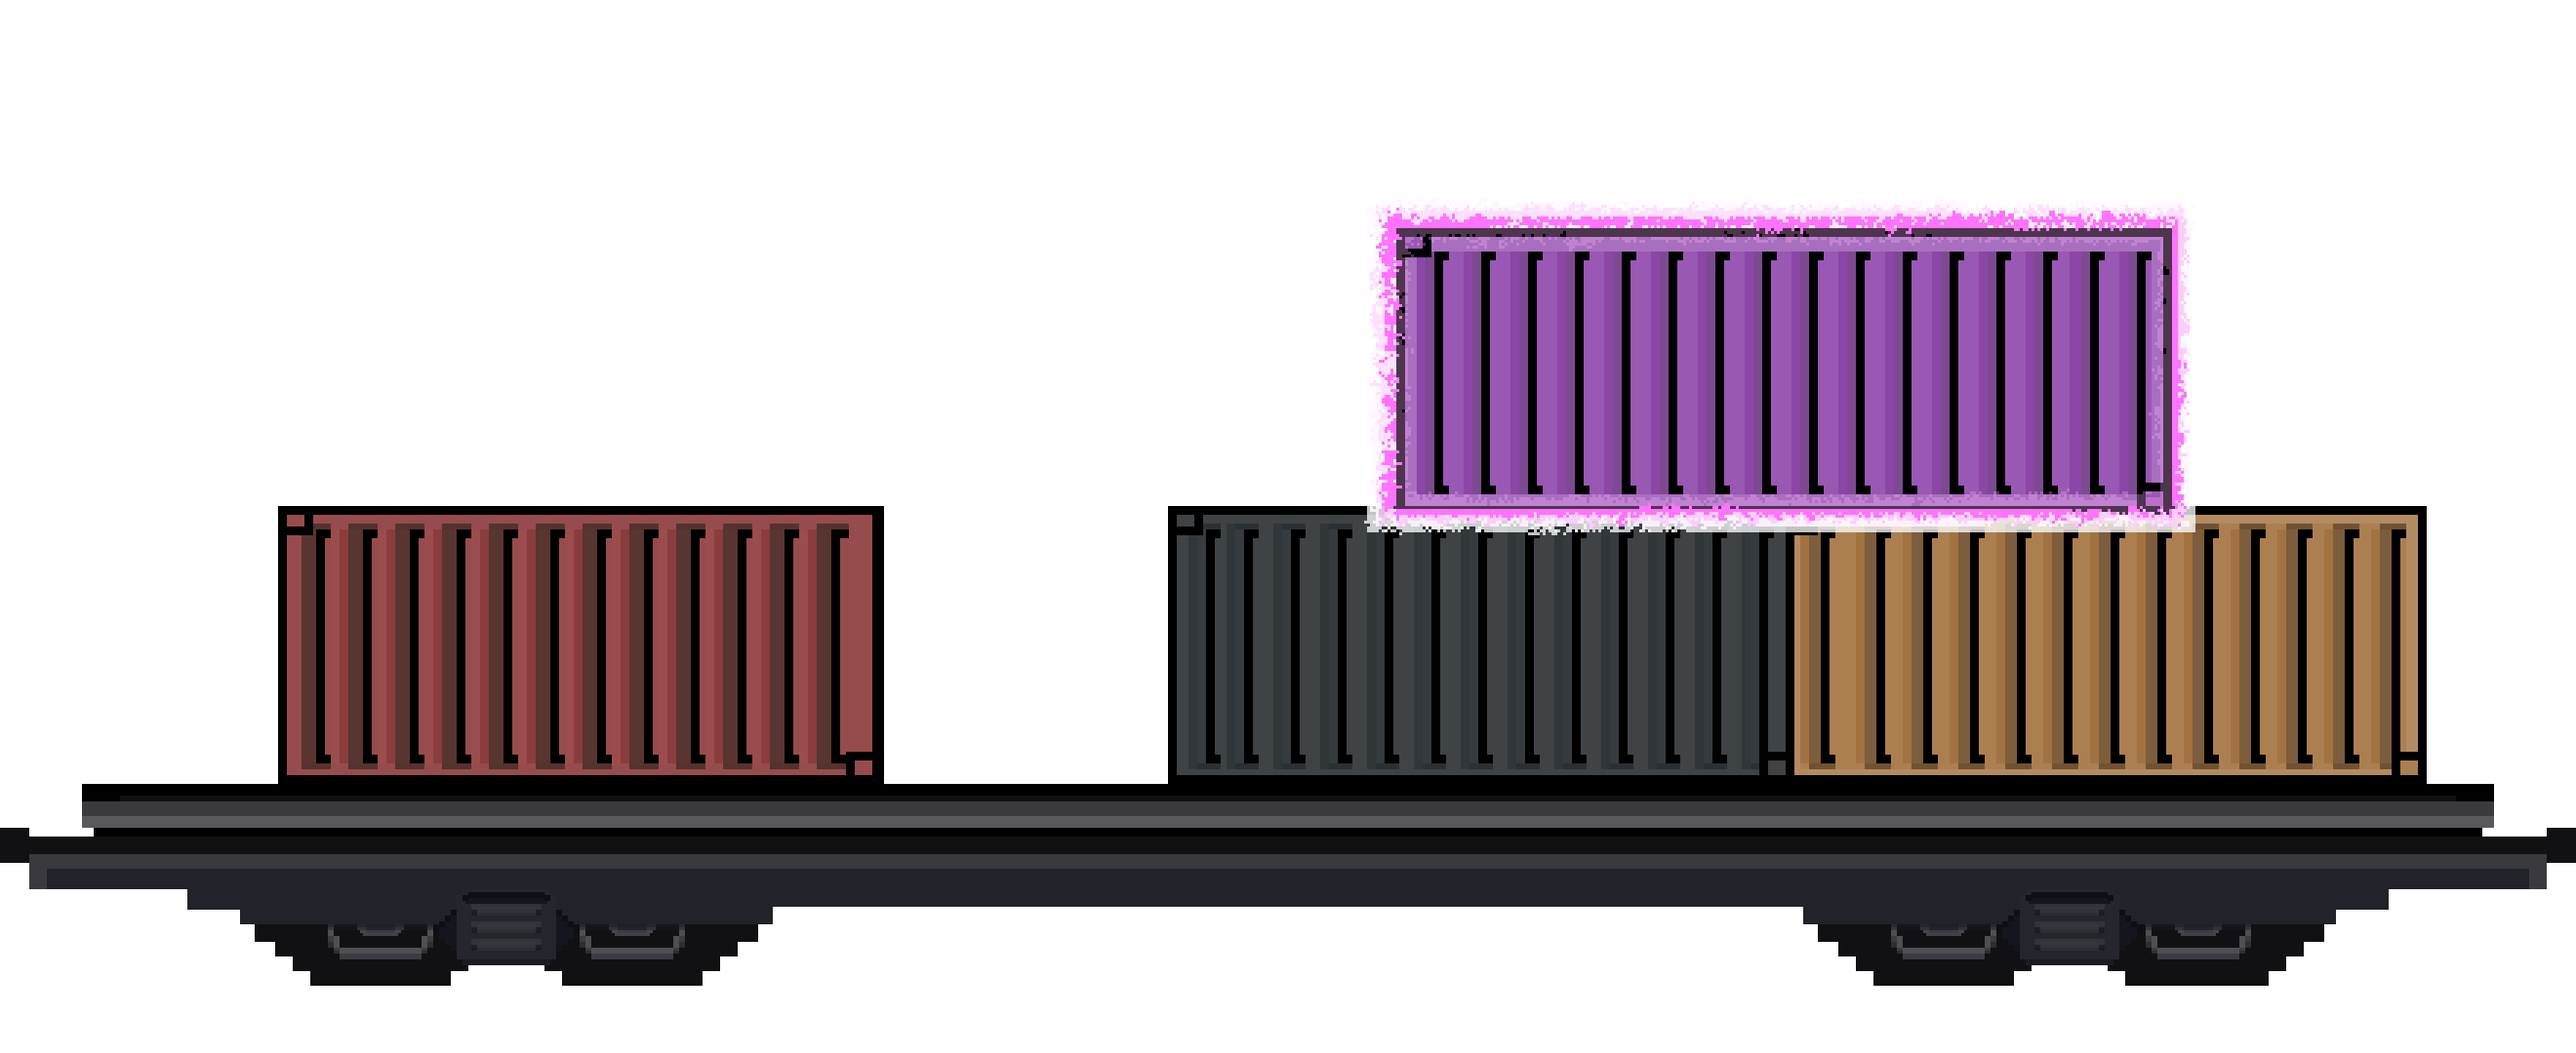
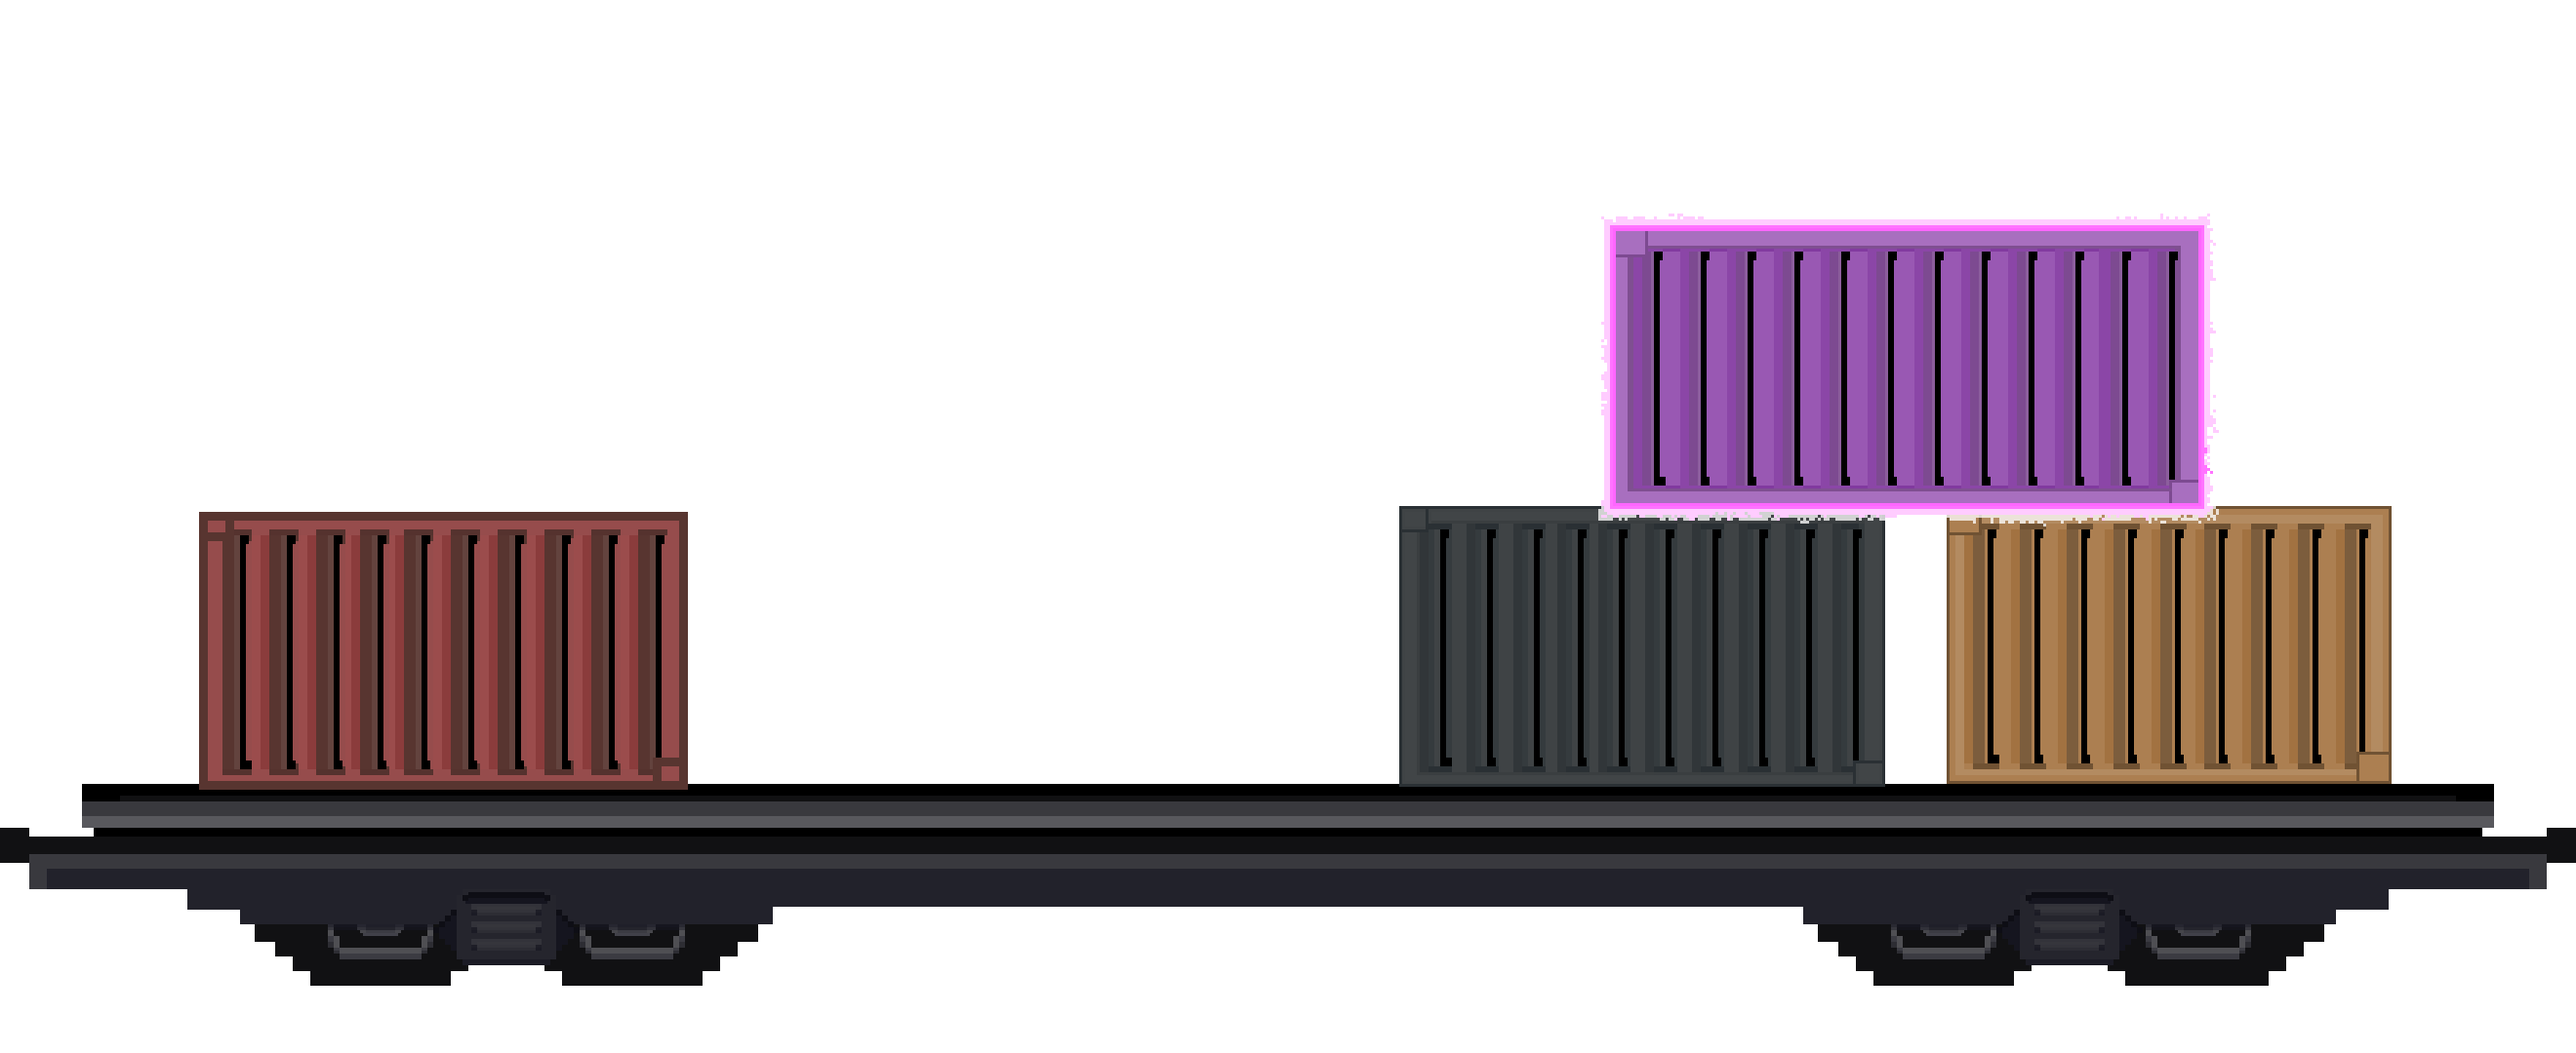
15.1

Changed region(s): [[0.4348, 0.1833, 0.9629, 0.7639], [0.0621, 0.4583, 0.3417, 0.7639]]

diff --git a/GAM200_JSLC/Game/Train.cpp b/GAM200_JSLC/Game/Train.cpp
@@ -1532,7 +1532,7 @@ void Train::BuildTrainHitboxes()
     // ════════════════════════════════════════════════════════════════════════
     // ▣  Car 1  –  FirstTrain.png
     //    이미지 내 오브젝트 배치 (좌 → 우)
-    //    [발판] - [컨테이너A(빨강)] - [컨테이너B(황갈, A 위)] - [컨테이너C(황갈)] - [컨테이너D(은색, 우측)]
+    //    [발판] - [빨강] - [회색 대형(상단)] - [황갈] - [은색(우측, 히딩)]
     // ════════════════════════════════════════════════════════════════════════
     const float c1 = 0.0f; // Car 1 시작 X (열차 맨 앞)
 
@@ -1541,89 +1541,74 @@ void Train::BuildTrainHitboxes()
     //   ※ 세 열차 공통 – 높이(Y)나 두께(height) 조정 시 세 곳 모두 동일하게 변경
     m_trainHitboxes.push_back(MakeHitbox(c1,   84,  804, 2472,  45));
 
-    // [Car1] 컨테이너 A  ─  좌측 빨간 컨테이너 (발판 위, 낮은 층)
-    //   위치: X=363  Y=519  크기: 189 x 286
-    m_trainHitboxes.push_back(MakeHitbox(c1,  363,  519,  189, 286));
+    // [Car1] 컨테이너 A  ─  좌측 빨간 컨테이너 (발판 위, 낮은 층)  FirstTrain.png
+    //   (288, 518) 246×285
+    m_trainHitboxes.push_back(MakeHitbox(c1, 288, 518, 246, 285));
 
-    // [Car1] 컨테이너 B  ─  황갈색 대형 컨테이너 (A 위에 적재, 높은 층)
-    //   위치: X=552  Y=237  크기: 660 x 282
-    //   ※ 위에 올라갈 수 있는 가장 높은 지점 중 하나
-    m_trainHitboxes.push_back(MakeHitbox(c1,  552,  237,  660, 282));
+    // [Car1] 컨테이너 B  ─  상단 회색 대형 컨테이너 (적재 상단)
+    //   (534, 222) 549×297
+    m_trainHitboxes.push_back(MakeHitbox(c1, 534, 222, 549, 297));
 
-    // [Car1] 컨테이너 C  ─  중앙 황갈색 컨테이너 (발판 위, 낮은 층)
-    //   위치: X=635  Y=519  크기: 540 x 285
-    m_trainHitboxes.push_back(MakeHitbox(c1,  1212,  519,  540, 285));
+    // [Car1] 컨테이너 C  ─  중앙 황갈 컨테이너 (발판 위, 낮은 층)
+    //   (1083, 519) 252×285
+    m_trainHitboxes.push_back(MakeHitbox(c1, 1083, 519, 252, 285));
 
-    // [Car1] 컨테이너 D  ─  우측 은색 대형 컨테이너 (히딩박스 – 충돌 없음, 내부 진입 가능)
-    //   위치: X=1806  Y=531  크기: 705 x 273  →  m_hidingSpots에만 등록
+    // [Car1] 컨테이너 D  ─  우측 은색 컨테이너 (히딩박스 – 솔리드 히트박스 없음)
+    //   (2005, 573) 525×237  →  m_hidingSpots에만 등록
 
 
     // ════════════════════════════════════════════════════════════════════════
-    // ▣  Car 2  –  SecondTrain.png
-    //    [발판] - [컨테이너E(빨강)] - [컨테이너F(어두운 소형)] - [컨테이너G(보라, 위)] - [컨테이너H(황갈, 우측)]
+    // ▣  Car 2  –  SecondTrain.png (에셋 픽셀 기준)
+    //    [발판] - [빨강] - [하단 회색] - [상단 보라(펄스박스)] - [우측 갈색]
     // ════════════════════════════════════════════════════════════════════════
     const float c2 = m_car1Width; // Car 2 시작 X (Car 1 끝 지점)
 
-    // [Car2] 발판 (Car 1 발판과 동일 상대 위치)
-    //   위치: X=84  Y=804  크기: 2472 x 45
-    m_trainHitboxes.push_back(MakeHitbox(c2,   84,  804, 2472,  45));
+    m_trainHitboxes.push_back(MakeHitbox(c2, 84, 804, 2472, 45));
 
-    // [Car2] 컨테이너 E  ─  좌측 적갈색 컨테이너 (발판 위, 낮은 층)
-    //   위치: X=285  Y=519  크기: 621 x 285
-    m_trainHitboxes.push_back(MakeHitbox(c2,  285,  519,  621, 285));
+    // 빨강 (204, 525) 501×285
+    m_trainHitboxes.push_back(MakeHitbox(c2, 204, 525, 501, 285));
 
-    // [Car2] 컨테이너 F  ─  소형 어두운 컨테이너 (발판 위, 낮은 층)
-    //   위치: X=1197  Y=519  크기: 234 x 286
-    m_trainHitboxes.push_back(MakeHitbox(c2, 1197,  519,  234, 286));
+    // 하단 어두운 회색 (1434, 519) 207×288
+    m_trainHitboxes.push_back(MakeHitbox(c2, 1434, 519, 207, 288));
 
-    // [Car2] 컨테이너 G  ─  대형 보라색 컨테이너 (높은 층 – 가장 높은 위치 중 하나)
-    //   위치: X=1431  Y=234  크기: 795 x 285
-    //   ※ 위에 올라갈 수 있는 가장 높은 지점
+    // 보라 적재 · Car2 펄스 박스 (1653, 234) 603×285  →  m_car2PurpleHb
     {
-        TrainHitbox purple = MakeHitbox(c2, 1431, 234, 795, 285);
+        TrainHitbox purple = MakeHitbox(c2, 1653, 234, 603, 285);
         m_car2PurpleHb      = purple;
         m_car2PurpleHbValid = true;
         m_trainHitboxes.push_back(purple);
     }
 
-    // [Car2] 컨테이너 H  ─  우측 소형 황갈색 컨테이너 (발판 위, 낮은 층)
-    //   위치: X=2324  Y=519  크기: 261 x 285
-    m_trainHitboxes.push_back(MakeHitbox(c2, 2226,  519,  261, 285));
+    // 우측 갈색 (2268, 519) 183×285
+    m_trainHitboxes.push_back(MakeHitbox(c2, 2268, 519, 183, 285));
 
 
     // ════════════════════════════════════════════════════════════════════════
-    // ▣  Car 3  –  ThirdTrain.png
-    //    [발판] - [컨테이너I(은색/흰)] - [컨테이너J(어두운 대형)] - [컨테이너K(황갈, 위)] - [컨테이너L(소형, 우측)]
+    // ▣  Car 3  –  ThirdTrain.png (에셋 픽셀 기준)
+    //    [사이렌] [발판] - [좌 박스=히딩 전용] - [하단 중·우 회색] - [상단 황갈]
     // ════════════════════════════════════════════════════════════════════════
-    const float c3 = m_car1Width + m_car2Width; // Car 3 시작 X (Car 2 끝 지점)
+    const float c3 = m_car1Width + m_car2Width;
 
-    // [Car3] 사이렌 장치 — 충돌 없음 (펄스 주입 상호작용 전용)
+    // 사이렌 / 펄스 주입 (1644, 207) 126×162 — 충돌 없음
     {
-        TrainHitbox siren = MakeHitbox(c3, 1644.f, 207.f, 126.f, 163.f, false);
+        TrainHitbox siren = MakeHitbox(c3, 1644.f, 207.f, 126.f, 162.f, false);
         m_car3SirenHb      = siren;
         m_car3SirenHbValid = true;
         m_trainHitboxes.push_back(siren);
     }
 
-    // [Car3] 발판 (Car 1 발판과 동일 상대 위치)
-    //   위치: X=84  Y=804  크기: 2472 x 45
-    m_trainHitboxes.push_back(MakeHitbox(c3,   84,  804, 2472,  45));
+    m_trainHitboxes.push_back(MakeHitbox(c3, 84, 804, 2472, 45));
 
-    // [Car3] 컨테이너 I  ─  좌측 은색/흰색 컨테이너 (히딩박스 – 충돌 없음, 내부 진입 가능)
-    //   위치: X=330  Y=504  크기: 378 x 300  →  m_hidingSpots에만 등록
+    // I 좌측 밝은 회색 박스 (177, 567) 324×237  →  m_hidingSpots만 (솔리드 없음)
 
-    // [Car3] 컨테이너 J  ─  중앙 대형 어두운 컨테이너 (발판 위, 낮은 층)
-    //   위치: X=1116  Y=519  크기: 534 x 285
-    m_trainHitboxes.push_back(MakeHitbox(c3, 1116,  519,  534, 285));
+    // J 하단 중앙 어두운 회색 (1323, 516) 315×288
+    m_trainHitboxes.push_back(MakeHitbox(c3, 1323, 516, 315, 288));
 
-    // [Car3] 컨테이너 K  ─  우측 황갈색 컨테이너 (높은 층 – J 위에 적재)
-    //   위치: X=1650  Y=252  크기: 660 x 267
-    //   ※ 위에 올라갈 수 있는 높은 지점
-    m_trainHitboxes.push_back(MakeHitbox(c3, 1650,  252,  660, 267));
+    // K 상단 황갈 (1638, 231) 456×285
+    m_trainHitboxes.push_back(MakeHitbox(c3, 1638, 231, 456, 285));
 
-    // [Car3] 컨테이너 L  ─  최우측 소형 컨테이너 (발판 위, 낮은 층)
-    //   위치: X=2310  Y=519  크기: 126 x 285
-    m_trainHitboxes.push_back(MakeHitbox(c3, 2310,  519,  126, 285));
+    // L 하단 우측 어두운 회색 (2094, 516) 294×288
+    m_trainHitboxes.push_back(MakeHitbox(c3, 2094, 516, 294, 288));
 
 
     // ════════════════════════════════════════════════════════════════════════
@@ -1681,15 +1666,15 @@ void Train::BuildTrainHitboxes()
     // ════════════════════════════════════════════════════════════════════════
     m_hidingSpots.clear();
 
-    // [Car1] 컨테이너 D  ─  우측 은색 대형 컨테이너
+    // [Car1] 컨테이너 D  ─  우측 은색 컨테이너  (2005, 573) 525×237
     {
-        auto hs = MakeHitbox(c1, 1806, 531, 705, 273);
+        auto hs = MakeHitbox(c1, 2005, 573, 525, 237);
         m_hidingSpots.push_back({ hs.localCenter, hs.size });
     }
 
-    // [Car3] 컨테이너 I  ─  좌측 은색/흰색 컨테이너
+    // [Car3] 좌측 밝은 회색 박스 (177, 567) 324×237
     {
-        auto hs = MakeHitbox(c3, 330, 504, 378, 300);
+        auto hs = MakeHitbox(c3, 177, 567, 324, 237);
         m_hidingSpots.push_back({ hs.localCenter, hs.size });
     }
 
